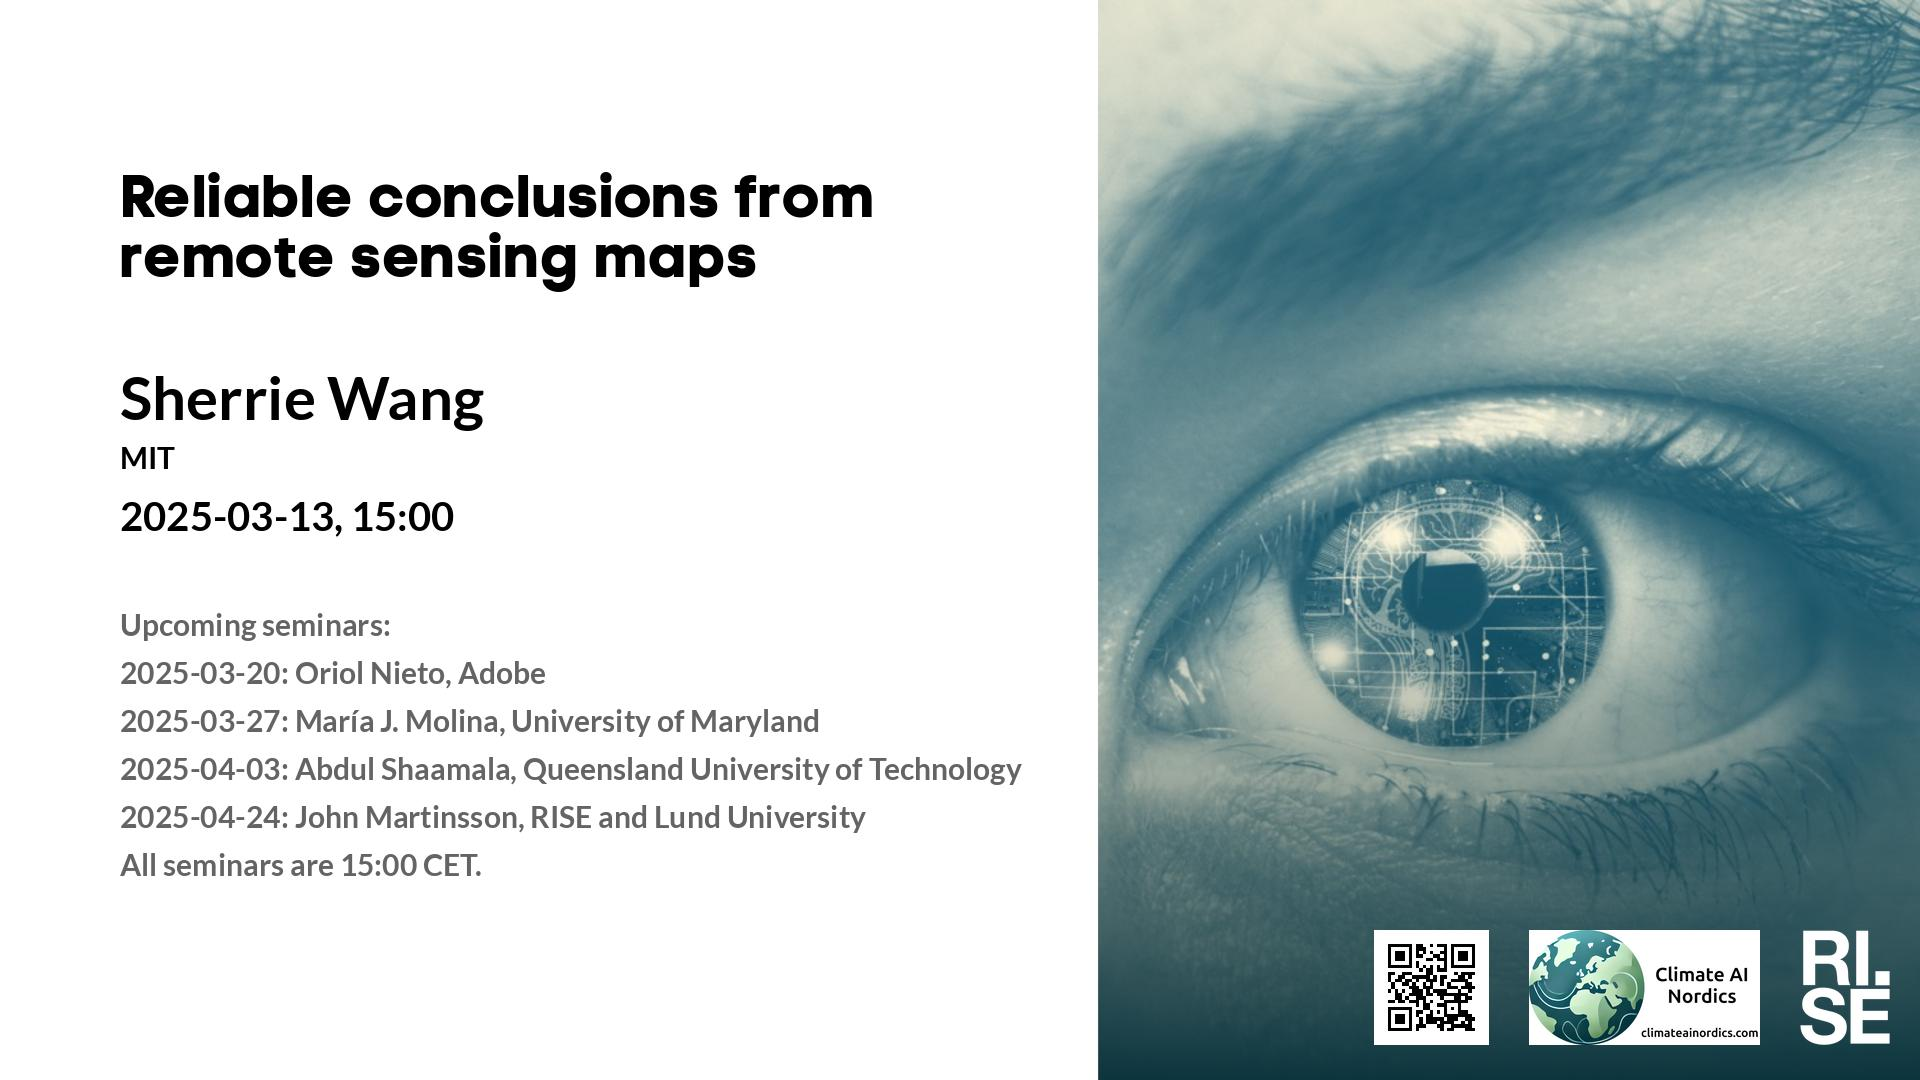
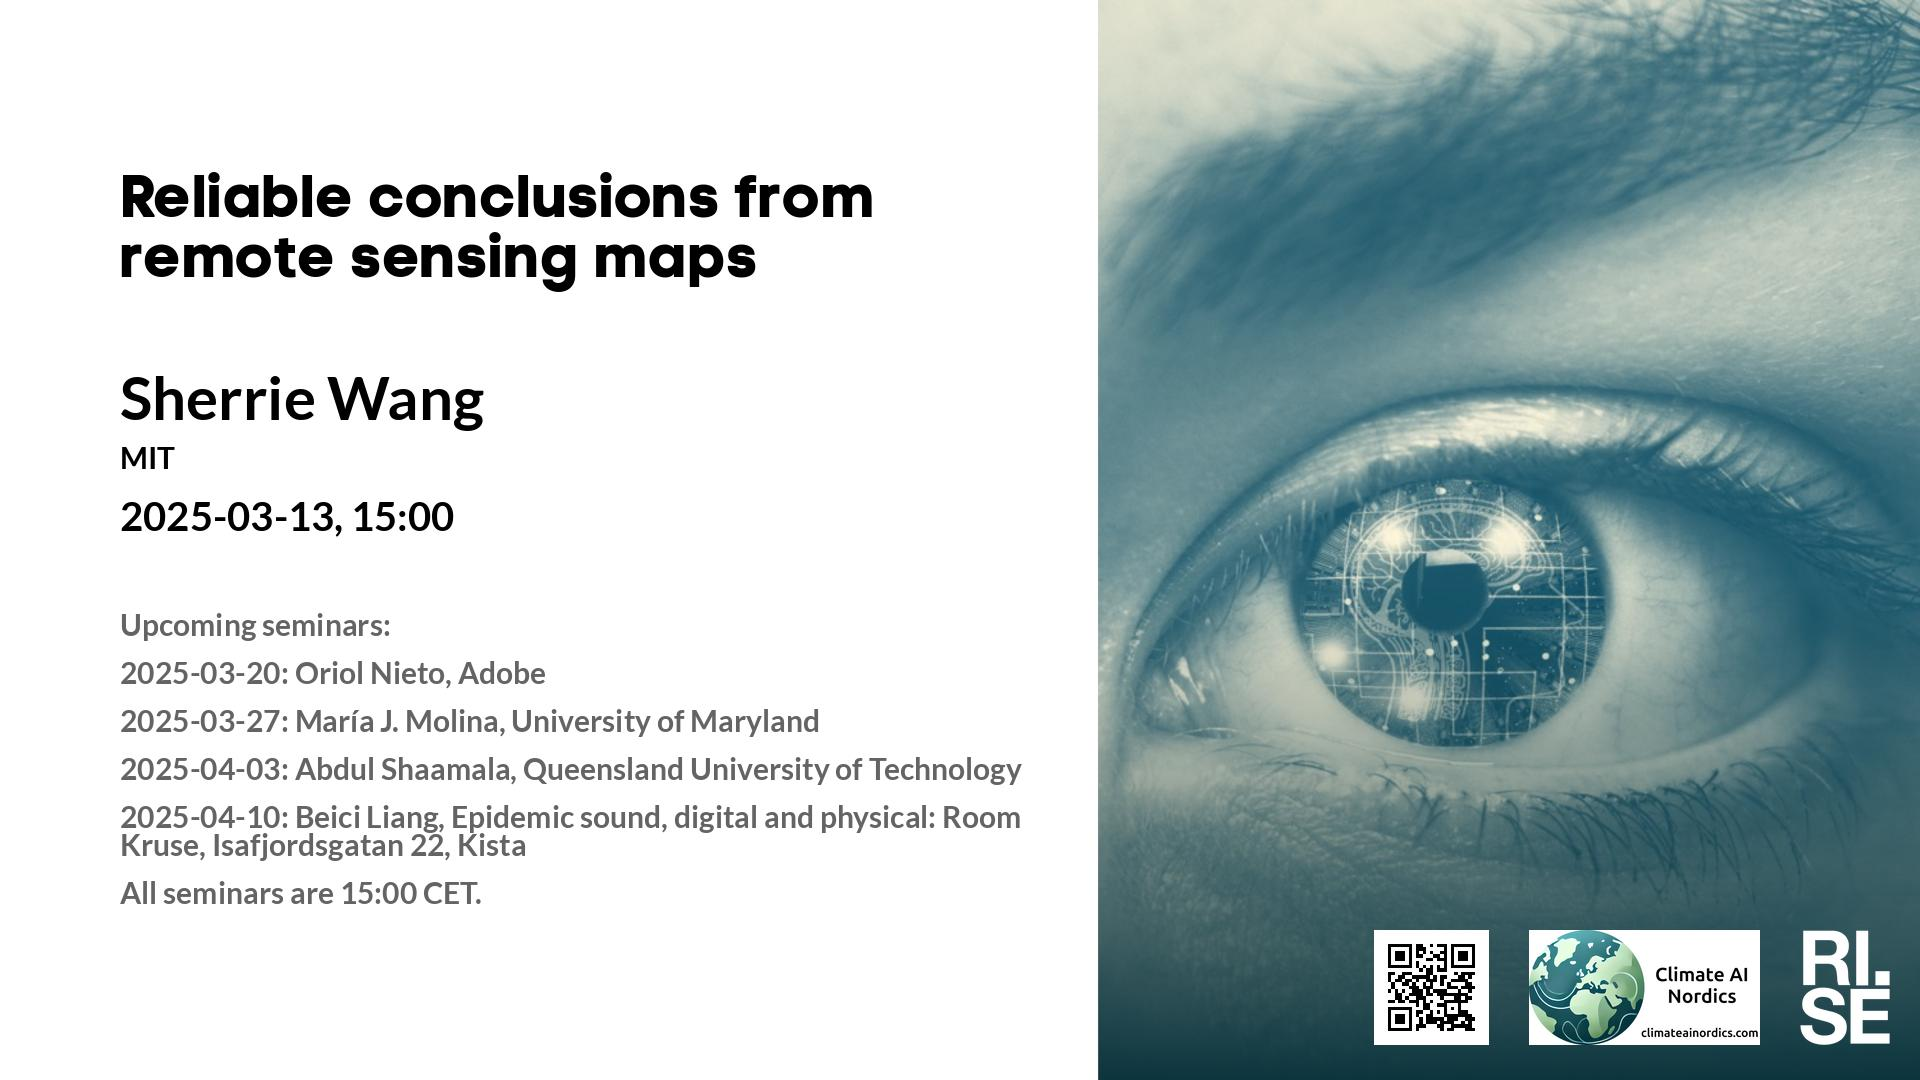
Updated plan on web site.

Changed region(s): [[0.0625, 0.7333, 0.5312, 0.8556]]

diff --git a/lm/2025-03-27.md b/lm/2025-03-27.md
@@ -26,7 +26,7 @@ This seminar is a collaboration between RISE and Climate AI Nordics -- [climatea
 * 2025-04-03: Abdul Shaamala, Queensland University of Technology
 * 2025-04-10: Beici Liang, Epidemic sound, **digital and physical: Room Kruse, Isafjordsgatan 22, Kista**
 * 2025-04-24: John Martinsson, RISE and Lund University
-* 2025-05-15: Peter Dueben, European Centre for Medium-Range Weather Forecasts
+* 2025-05-08: Ghjulia Sialelli, ETH Zurich
 * All seminars are 15:00 CET.
 
 More information and coming seminars: [https://ri.se/lm-sem](https://ri.se/lm-sem)

diff --git a/lm/2025-03-13.md b/lm/2025-03-13.md
@@ -30,7 +30,7 @@ Prior to MIT, Wang was a Ciriacy-Wantrup Postdoctoral Fellow at UC Berkeley, hos
 * 2025-03-20: Oriol Nieto, Adobe
 * 2025-03-27: María J. Molina, University of Maryland
 * 2025-04-03: Abdul Shaamala, Queensland University of Technology
-* 2025-04-24: John Martinsson, RISE and Lund University
+* 2025-04-10: Beici Liang, Epidemic sound, **digital and physical: Room Kruse, Isafjordsgatan 22, Kista**
 * All seminars are 15:00 CET.
 
 More information and coming seminars: [https://ri.se/lm-sem](https://ri.se/lm-sem)
